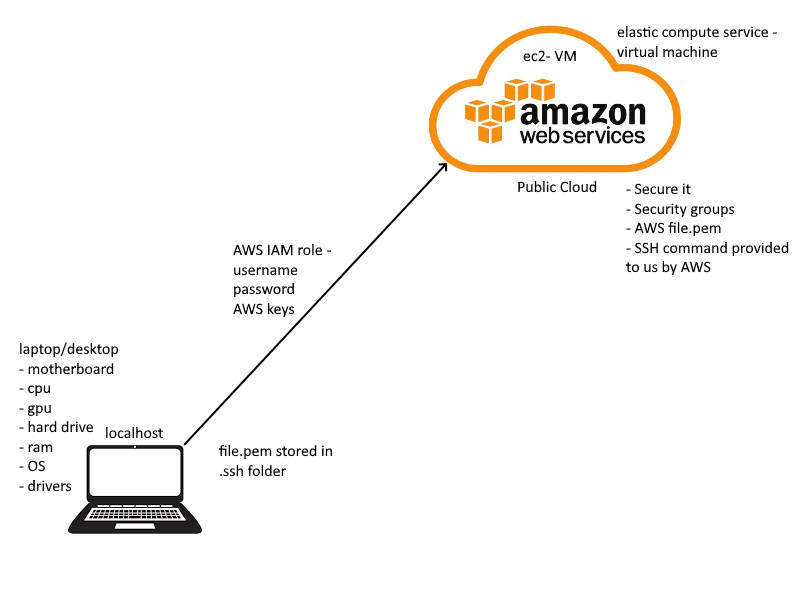
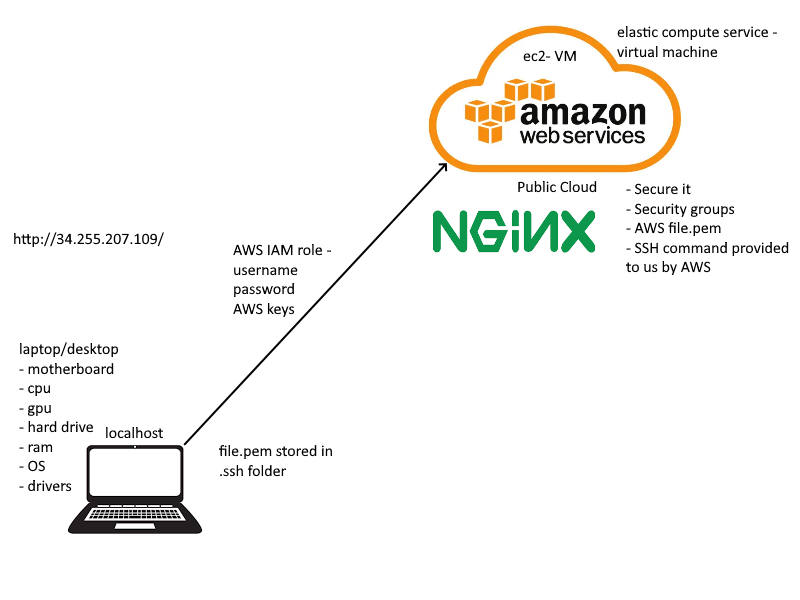
Added Instructions to Launch Instance and SSH into it

Changed region(s): [[0.5312, 0.33, 0.75, 0.42], [0.0, 0.39, 0.2188, 0.42]]

diff --git a/README.md b/README.md
@@ -49,8 +49,30 @@
 
 ### AWS Diagram:
 ![AWS Diagram](./img/AWS_diagram.png)
-- First you need an IAM role that provides you with permissions
+- First you need an IAM (Identity and Access Management) role that provides you with permissions
 - ec2 (elastic compute service) - Virtual Machine (VM)
 - Secure it with Security groups and create a file.pem
 - Store the file.pem in the .ssh folder
 - VM: Computer file that behaves like an actual computer. AWS needs to know the specs for the VM similar to the specs of a laptop/desktop
+
+### Launch an Instance:
+- Select your Region (Ireland - eu-west-1)
+- Select EC2 then Launch Instance
+- Select OS (Ubuntu Server 18.04)
+- Choose an instance  that decides CPU, RAM, Network Performance (t2.micro)
+- Configure instance details (enter Subnet and enable Public IP)
+- Add storage (default)
+- Add tags (Name - 105_sre_shakilur_nginx)
+- Configure security groups (SSH rules to your IP, HTTP rule for global access)
+- SSH uses port 22, HTTP uses port 80
+- Launch instance
+
+### SSH into an Instance:
+- Locate your private key (105.pem)
+- Change permissions of file to readonly (chmod 400 105.pem)
+- Connect to instance from git bash (ssh -i "105.pem" ubuntu@ec2-34-255-207-109.eu-west-1.compute.amazonaws.com)
+- Now you are inside the VM run the following commands:
+    - sudo apt-get update -y
+    - sudo apt-get upgrade -y
+    - sudo apt-get install nginx -y
+- Go to the public IP address to check the instance is running
